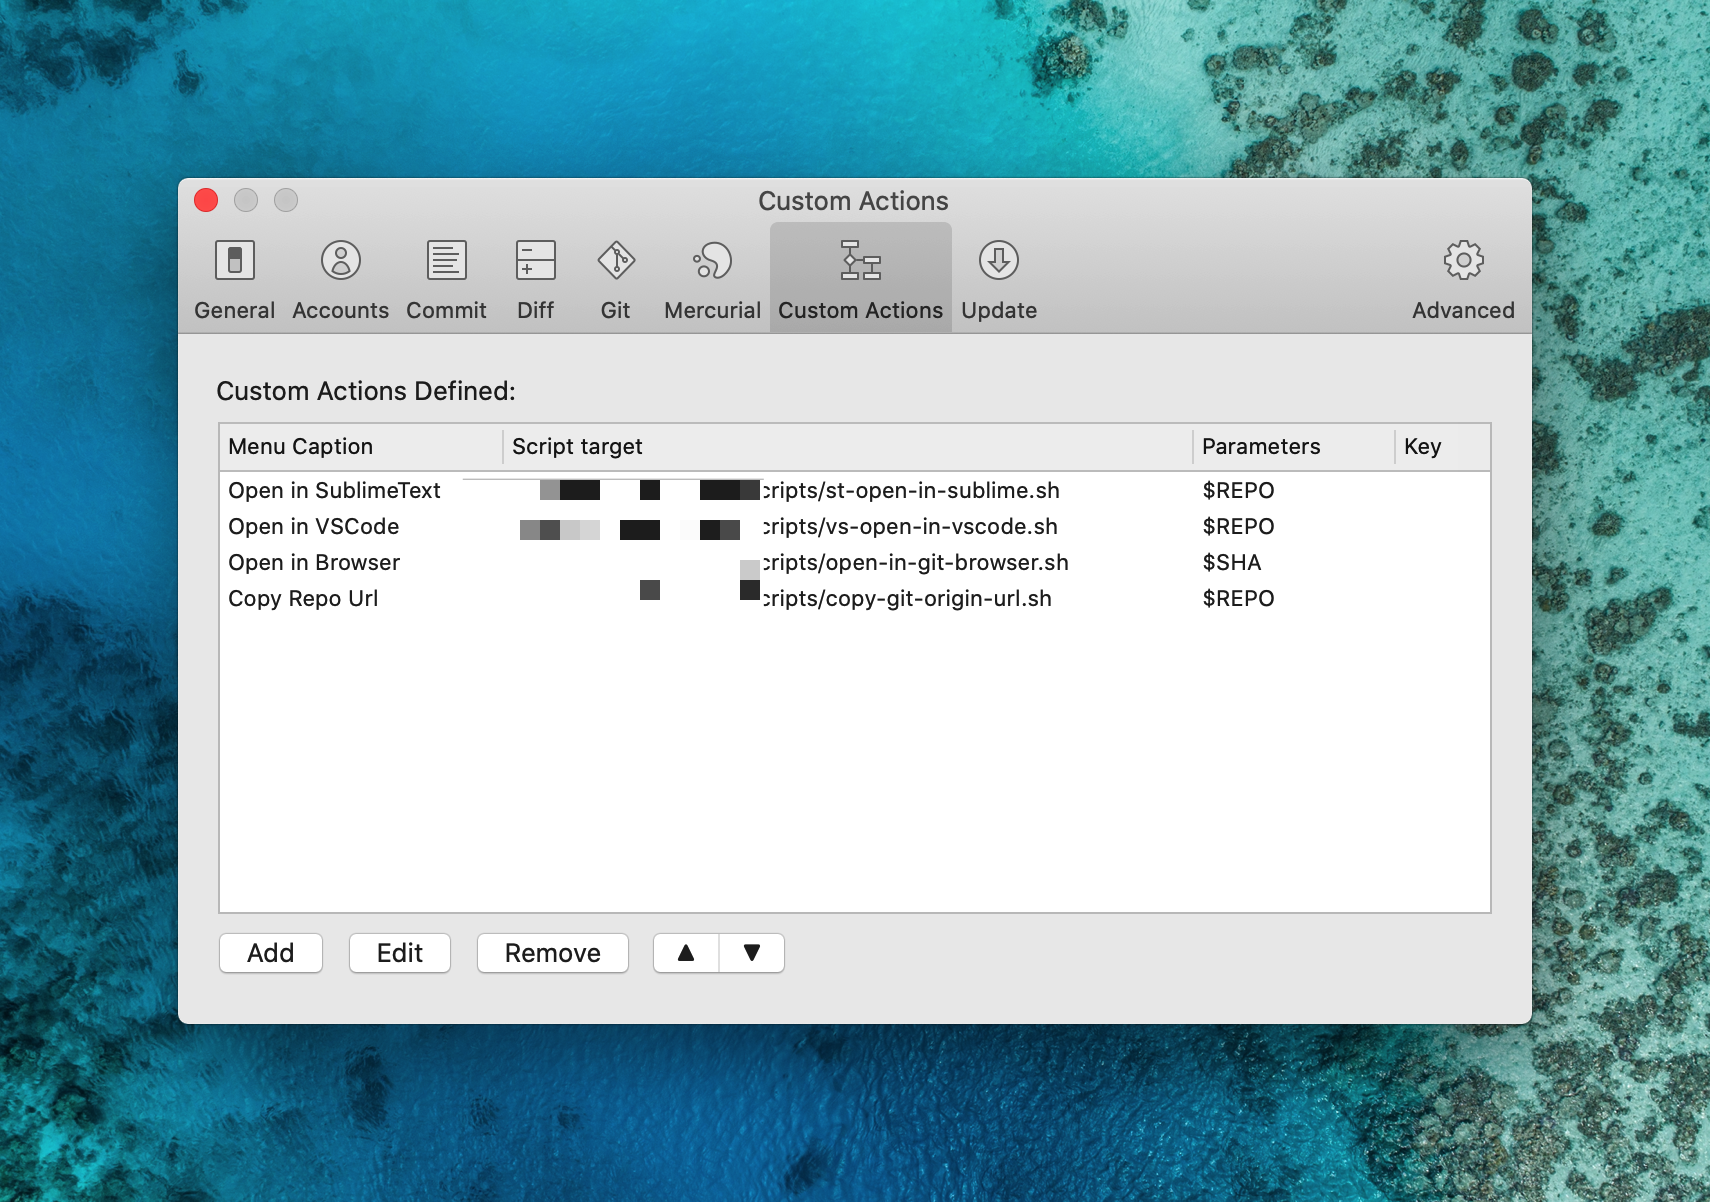
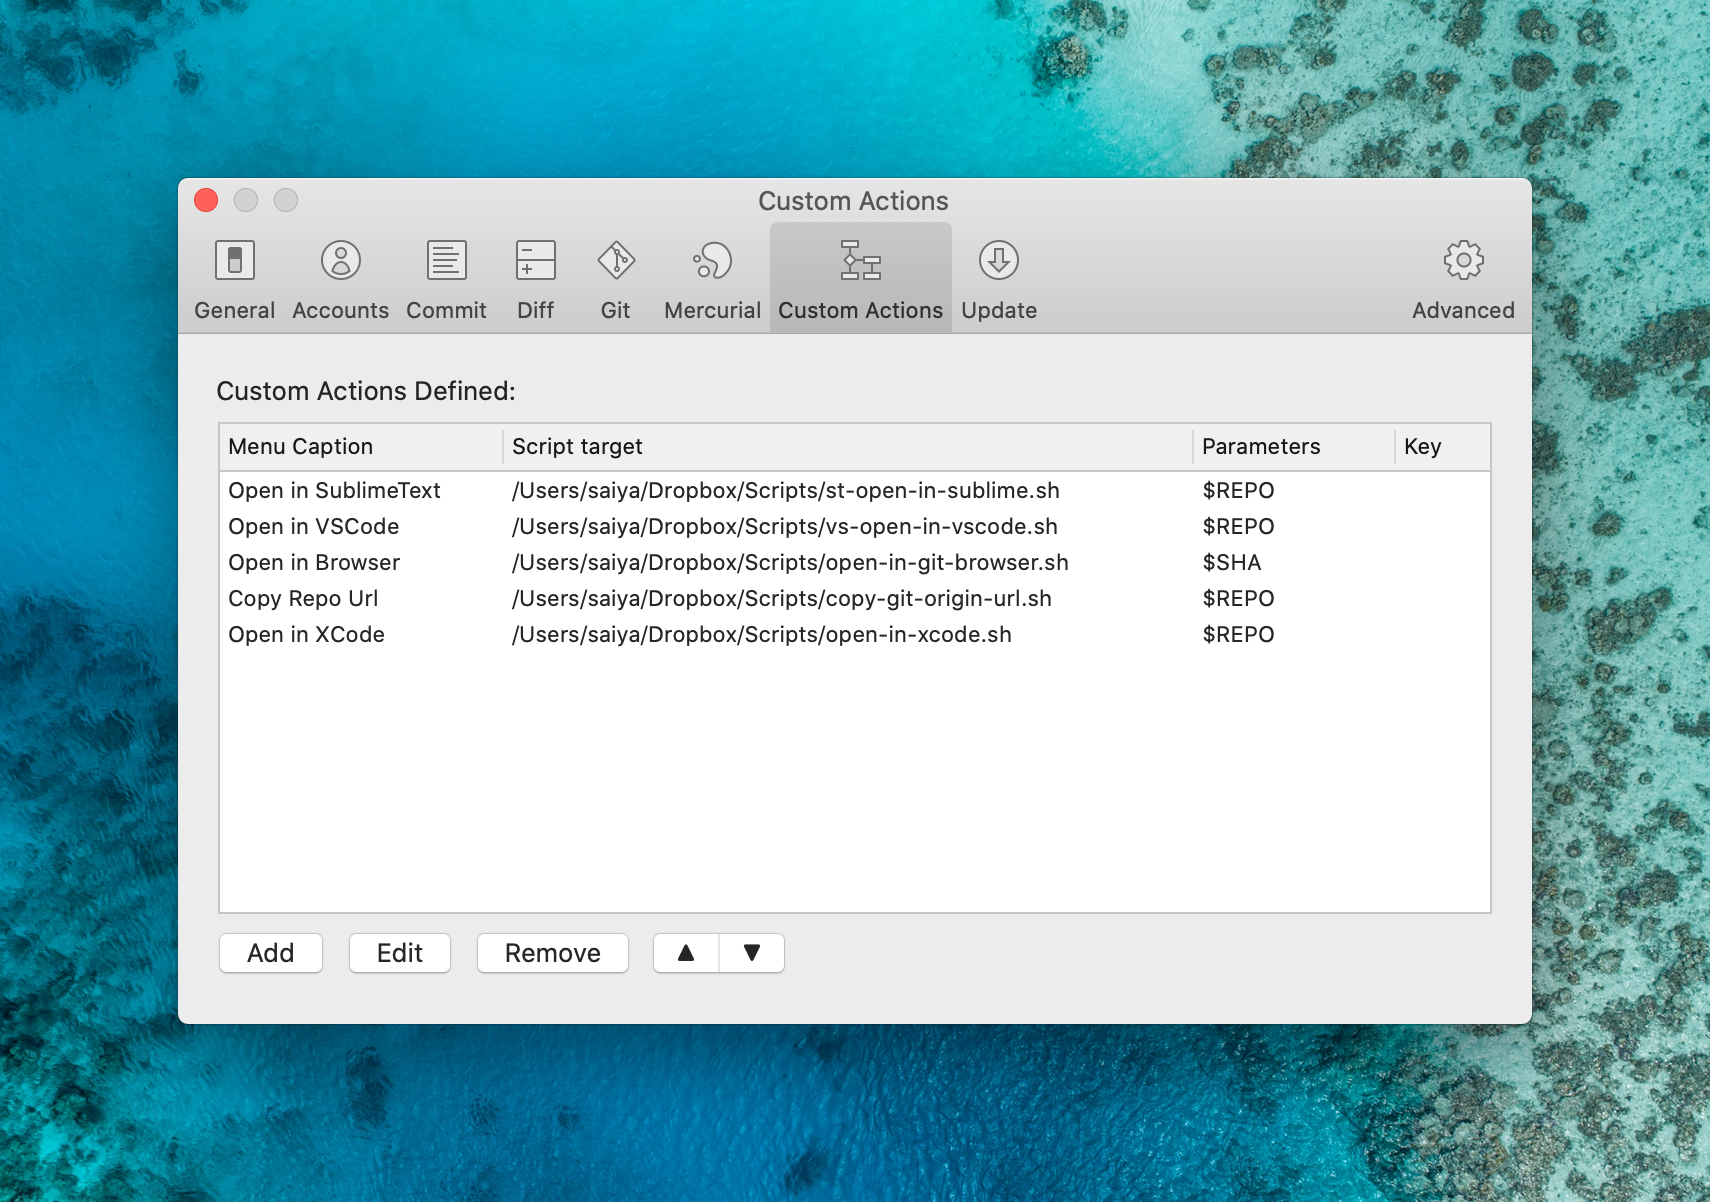
feat: add `open in xcode` script

diff --git a/README.md b/README.md
@@ -4,8 +4,9 @@ Useful [SourceTree](https://www.sourcetreeapp.com/) custom actions bash scripts.
 - Open current repo in VS Code
 - Open Select commit in Browser(Support github/gitlab)
 - Copy current Repo Url to Clipboard
+- Open XCode project in XCode
 
-Tested on Mac, but should work on Linux and Windows(Win10 with sublinux) too(you may need to alter application path in the scripts)
+Tested on Mac, but should work on Linux and Windows(Win10 with SubLinux) too(you may need to alter application path in the scripts)
 
 ## how to install
 
